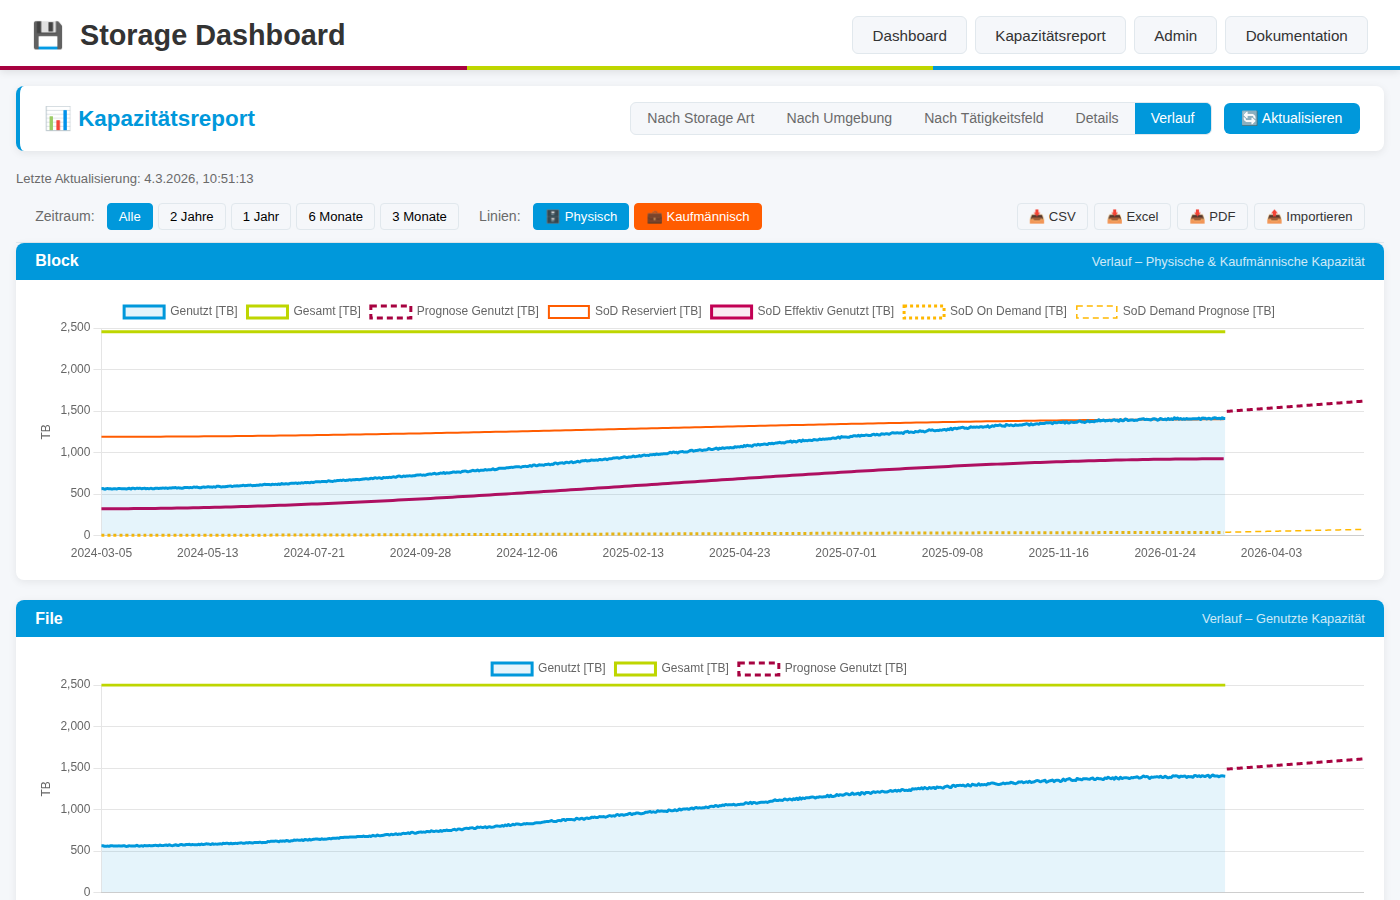
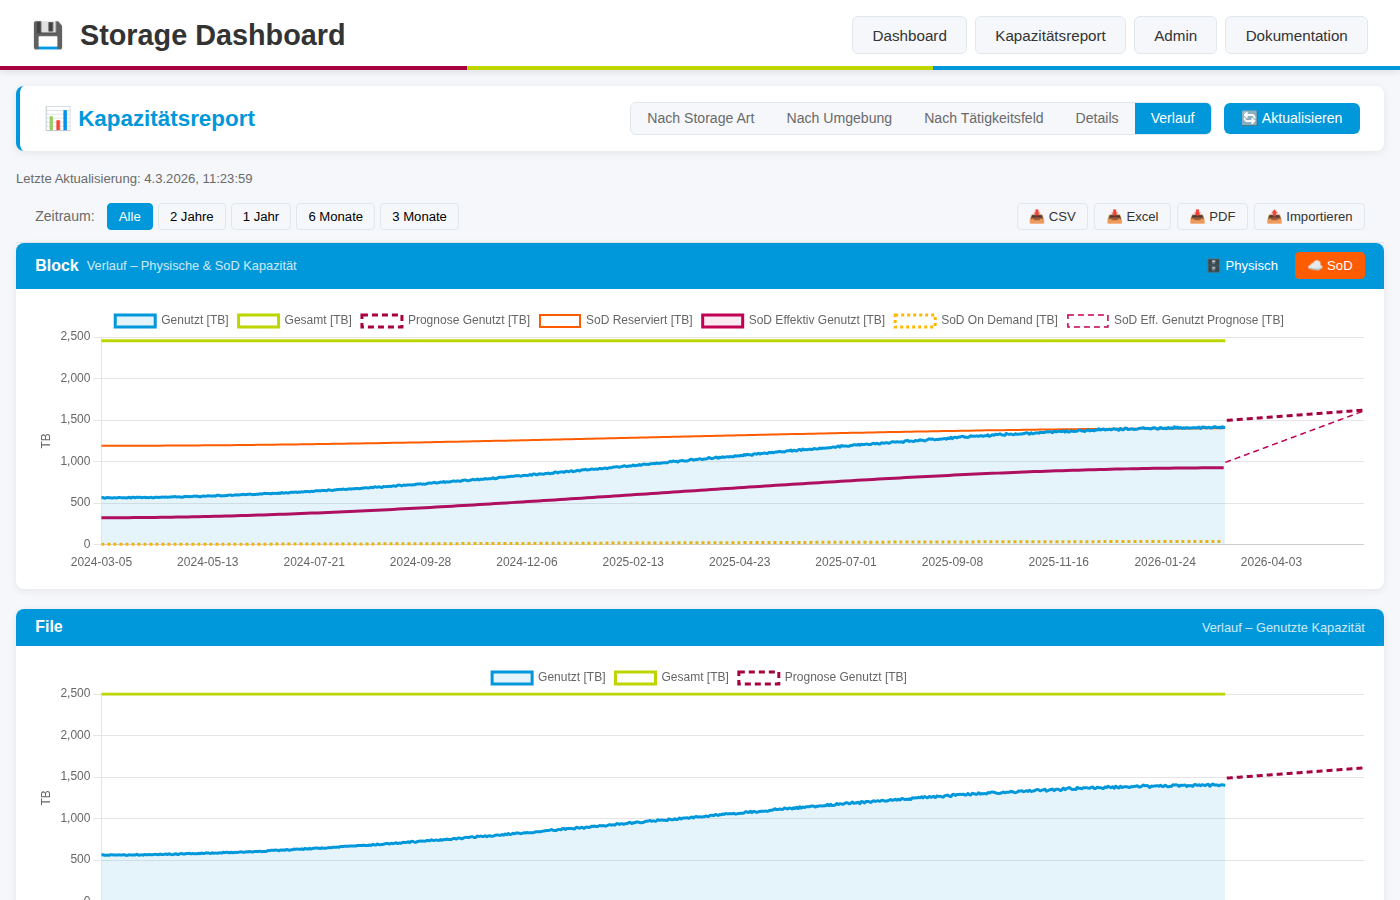
fix: effective_used forecast, Block-only SoD filter, rename Kaufmännisch→SoD

diff --git a/app/templates/capacity.html b/app/templates/capacity.html
@@ -510,17 +510,6 @@
             <button class="range-btn"        data-range="6m"   onclick="loadHistory('6m')">6 Monate</button>
             <button class="range-btn"        data-range="3m"   onclick="loadHistory('3m')">3 Monate</button>
         </div>
-        <label style="margin-left:.5rem;">Linien:</label>
-        <div class="line-filter-group">
-            <button class="line-filter-btn active" data-filter="physical"
-                    onclick="toggleLineFilter('physical')" title="Physische Linien ein-/ausblenden">
-                🗄 Physisch
-            </button>
-            <button class="line-filter-btn active commercial" data-filter="commercial"
-                    onclick="toggleLineFilter('commercial')" title="Kaufmännische Linien ein-/ausblenden">
-                💼 Kaufmännisch
-            </button>
-        </div>
         <div class="history-actions">
             <button class="export-btn" onclick="exportCsv()" title="Historische Daten als CSV exportieren">📥 CSV</button>
             <button class="export-btn" onclick="exportExcel()" title="Historische Daten als Excel exportieren">📥 Excel</button>
@@ -1229,10 +1218,25 @@ async function loadHistory(range) {
         el.innerHTML = arts.map(art => {
             const hasSod = art === 'Block' && data[art].sod;
             const subtitle = hasSod
-                ? 'Verlauf – Physische &amp; Kaufmännische Kapazität'
+                ? 'Verlauf – Physische &amp; SoD Kapazität'
                 : 'Verlauf – Genutzte Kapazität';
+            const filterHtml = hasSod ? `
+                <span class="line-filter-group" style="margin-left:auto;">
+                    <button class="line-filter-btn active" data-filter="physical"
+                            onclick="toggleLineFilter('physical')" title="Physische Linien ein-/ausblenden">
+                        🗄 Physisch
+                    </button>
+                    <button class="line-filter-btn active commercial" data-filter="commercial"
+                            onclick="toggleLineFilter('commercial')" title="SoD Linien ein-/ausblenden">
+                        ☁ SoD
+                    </button>
+                </span>` : '';
             return `<div class="cap-section">
-                <div class="cap-section-header"><span>${escHtml(art)}</span><span class="section-subtitle">${subtitle}</span></div>
+                <div class="cap-section-header" style="display:flex;align-items:center;gap:.5rem;">
+                    <span>${escHtml(art)}</span>
+                    <span class="section-subtitle">${subtitle}</span>
+                    ${filterHtml}
+                </div>
                 <div class="chart-container"><canvas id="chart-${escHtml(art).replace(/\s+/g,'-')}"></canvas></div>
             </div>`;
         }).join('');
@@ -1313,11 +1317,11 @@ async function loadHistory(range) {
                     borderDash: [3, 3],
                     _group: 'commercial',
                 });
-                if (sod.demand_forecast_values && sod.demand_forecast_values.length > 0) {
+                if (sod.effective_forecast_values && sod.effective_forecast_values.length > 0) {
                     datasets.push({
-                        label: 'SoD Demand Prognose [TB]',
-                        data: sod.demand_forecast_values.map((v, i) => ({x: sod.demand_forecast_labels[i], y: v})),
-                        borderColor: '#FFB800',
+                        label: 'SoD Eff. Genutzt Prognose [TB]',
+                        data: sod.effective_forecast_values.map((v, i) => ({x: sod.effective_forecast_labels[i], y: v})),
+                        borderColor: '#C20054',
                         backgroundColor: 'transparent',
                         tension: 0.3,
                         pointRadius: 0,
@@ -1367,19 +1371,21 @@ async function loadHistory(range) {
     }
 }
 
-// ── Line filter toggle ────────────────────────────────────────────────────
+// ── Line filter toggle (Block chart only) ────────────────────────────────
 function toggleLineFilter(group) {
     lineFilterState[group] = !lineFilterState[group];
-    const btn = document.querySelector(`.line-filter-btn[data-filter="${group}"]`);
-    if (btn) btn.classList.toggle('active', lineFilterState[group]);
-
-    // Update visibility on all existing charts
-    Object.values(chartInstances).forEach(chart => {
-        chart.data.datasets.forEach(ds => {
-            if (ds._group === group) ds.hidden = !lineFilterState[group];
-        });
-        chart.update();
+    // Update button state (the buttons live inside the Block chart header)
+    document.querySelectorAll(`.line-filter-btn[data-filter="${group}"]`).forEach(btn => {
+        btn.classList.toggle('active', lineFilterState[group]);
     });
+
+    // Only update the Block chart instance
+    const blockChart = chartInstances['Block'];
+    if (!blockChart) return;
+    blockChart.data.datasets.forEach(ds => {
+        if (ds._group === group) ds.hidden = !lineFilterState[group];
+    });
+    blockChart.update();
 }
 
 // ── Storage on Demand refresh ─────────────────────────────────────────────

diff --git a/app/routes/capacity.py b/app/routes/capacity.py
@@ -81,14 +81,14 @@ def api_history():
                 'labels': [], 'used': [], 'total': [],
                 'forecast_labels': [], 'forecast_values': [],
             }
-        fc_demand = compute_forecast(sod['labels'], sod['on_demand'], forecast_days=90)
+        fc_demand = compute_forecast(sod['labels'], sod['effective_used'], forecast_days=90)
         history[block_art]['sod'] = {
             'labels': sod['labels'],
             'reserved': sod['reserved'],
             'effective_used': sod['effective_used'],
             'on_demand': sod['on_demand'],
-            'demand_forecast_labels': fc_demand['labels'],
-            'demand_forecast_values': fc_demand['values'],
+            'effective_forecast_labels': fc_demand['labels'],
+            'effective_forecast_values': fc_demand['values'],
         }
 
     return jsonify(history)

diff --git a/README.md b/README.md
@@ -31,7 +31,7 @@ Ein Python-basiertes Dashboard zur Überwachung von Storage-Systemen verschieden
 ### Kapazitätsreport – Details (alle Systeme)
 ![Kapazitätsreport – Details](screenshots/capacity-details.png)
 
-### Kapazitätsreport – Verlauf mit physischen & kaufmännischen Linien, Filter und Prognose
+### Kapazitätsreport – Verlauf mit physischen & SoD-Linien, Filter und Prognose
 ![Kapazitätsreport – Verlauf](screenshots/capacity-history.png)
 
 ### Kapazitätsreport – Verlauf Steuerleiste (Zeitraum, Linienfilter, Export/Import)
@@ -50,7 +50,7 @@ Ein Python-basiertes Dashboard zur Überwachung von Storage-Systemen verschieden
 - **Multi-Vendor Support**: Überwachung von Pure Storage, NetApp ONTAP 9, NetApp StorageGRID 11 und Dell DataDomain
 - **Web Dashboard**: Übersichtliche Card/Grid-Ansicht aller Storage-Systeme
 - **Kapazitätsreport**: Tabellarische Kapazitätsübersicht aller Systeme unter `/capacity/` – gruppiert nach Storage Art (**Block → File → Object → Archiv → Backup**), Umgebung oder Tätigkeitsfeld, mit Verlaufsgraphen und Wachstumsprognose
-- **Verlaufsdiagramme**: Historische Kapazitätsgraphen in der gleichen Reihenfolge wie die Tabellen (Block → File → Object → Archiv → Backup). Der **Block-Graph** zeigt physische und kaufmännische (SoD) Werte parallel in zwei Liniengruppen. Über einen **Linienfilter** können physische oder kaufmännische Linien ein- und ausgeblendet werden.
+- **Verlaufsdiagramme**: Historische Kapazitätsgraphen in der gleichen Reihenfolge wie die Tabellen (Block → File → Object → Archiv → Backup). Der **Block-Graph** zeigt physische und SoD-Vertragswerte parallel in zwei Liniengruppen. Über einen **Linienfilter** direkt im Block-Graph-Header können physische oder SoD-Linien ein- und ausgeblendet werden.
 - **Storage on Demand (Pure1)**: Bei konfigurierter Pure1 API wird in allen Kapazitätsansichten (Nach Storage Art, Nach Umgebung, Nach Tätigkeitsfeld) eine kompakte SoD-Zusammenfassung angezeigt (Reservierte Kapazität, Effektiv Genutzt, Auslastung [%]). Die Kapazitätstabellen zeigen zusätzlich eine Spalte **„Effektiv Genutzt [TB]"**, die die Pure1-Effektivwerte (nach Deduplikation/Komprimierung) pro Zeile summiert. Vollständige Detailinformationen (Verträge, Lizenzen, Arrays) sind im Tab **Details** verfügbar:
   - Wöchentlich automatisch abgerufen, manuell per Knopfdruck aktualisierbar
   - Wird nur angezeigt, wenn Pure1 in den Einstellungen konfiguriert ist
@@ -357,7 +357,7 @@ Der Kapazitätsreport bietet eine umfassende tabellarische und grafische Auswert
 | **Nach Umgebung** | Eine Tabelle pro Umgebung (Produktion, Test/Dev) mit Zeilen je Storage-Typ und Total. Enthält ebenfalls die Pure1 SoD-Zusammenfassung am Ende. |
 | **Nach Tätigkeitsfeld** | Eine Tabelle pro Abteilung/Tätigkeitsfeld mit Zeilen für jede Umgebung × Storage-Typ-Kombination. Enthält ebenfalls die Pure1 SoD-Zusammenfassung am Ende. |
 | **Details** | Alle Einzelsysteme mit Name, Umgebung, Tätigkeitsfeld und Kapazitätswerten, gruppiert nach Storage-Typ. Im Block-Bereich zusätzlich eine aufklappbare Untertabelle mit vollständigen Pure1 SoD-Lizenzdaten (Reserviert, Effektiv Genutzt, On Demand, Arrays). |
-| **Verlauf** | Liniendiagramme pro Storage-Typ in der gleichen Reihenfolge wie die Tabellen (Block → File → Object → Archiv → Backup) mit wählbarem Zeitraum (Alle / 2J / 1J / 6M / 3M) und linearer Wachstumsprognose als gestrichelte Linie. Der Block-Graph zeigt zusätzlich kaufmännische SoD-Linien. |
+| **Verlauf** | Liniendiagramme pro Storage-Typ in der gleichen Reihenfolge wie die Tabellen (Block → File → Object → Archiv → Backup) mit wählbarem Zeitraum (Alle / 2J / 1J / 6M / 3M) und linearer Wachstumsprognose als gestrichelte Linie. Der Block-Graph zeigt zusätzlich SoD-Vertragslinien mit eigenem Filter. |
 
 **Spalten in den Kapazitätstabellen:**
 - Gesamt [TB], Genutzt [TB], Frei [TB]
@@ -385,9 +385,9 @@ Der **Verlauf**-Tab zeigt historische Kapazitätsgraphen für alle Storage-Typen
 
 Die Graphen erscheinen in der gleichen Reihenfolge wie die Tabellen: **Block → File → Object → Archiv → Backup**.
 
-**Physische und kaufmännische Linien im Block-Graphen:**
+**Physische und SoD-Linien im Block-Graphen:**
 
-Der Block-Graph zeigt physische und SoD-Vertragswerte parallel. Physische Linien (Pure blau / grün) und kaufmännische Linien (Pure Storage Farben Orange / Dunkelrot / Goldgelb) sind klar unterschieden:
+Der Block-Graph zeigt physische und SoD-Vertragswerte parallel. Physische Linien (Pure blau / grün) und SoD-Linien (Pure Storage Farben Orange / Dunkelrot / Goldgelb) sind klar unterschieden:
 
 | Linie | Farbe | Bedeutung |
 |-------|-------|-----------|
@@ -395,15 +395,17 @@ Der Block-Graph zeigt physische und SoD-Vertragswerte parallel. Physische Linien
 | Gesamt [TB] | 🟡 Grüngelb | Physisch installierte Gesamtkapazität |
 | Prognose Genutzt [TB] | 🔴 Dunkelrot, gestrichelt | Lineare Prognose der physischen Nutzung |
 | SoD Reserviert [TB] | 🟠 Orange | Vertraglich reservierte SoD-Kapazität |
-| SoD Effektiv Genutzt [TB] | 🟣 Magenta | Kaufmännisch effektiv genutzte Kapazität |
+| SoD Effektiv Genutzt [TB] | 🟣 Magenta | SoD effektiv genutzte Kapazität |
 | SoD On Demand [TB] | 🟡 Goldgelb, gestrichelt | Über-Vertrag-Nutzung (On Demand) |
-| SoD Demand Prognose [TB] | 🟡 Goldgelb, gestrichelt | Lineare Prognose der On-Demand-Nutzung |
+| SoD Eff. Genutzt Prognose [TB] | 🟣 Magenta, gestrichelt | Lineare Prognose der SoD-Nutzung – zeigt ab wann On-Demand-Kapazität benötigt wird |
 
-![Block-Graph mit physischen und kaufmännischen Linien](screenshots/capacity-history.png)
+![Block-Graph mit physischen und SoD-Linien](screenshots/capacity-history.png)
 
-**Linienfilter:**
+**Linienfilter (nur im Block-Graphen):**
 
-Über die Schaltflächen **🗄 Physisch** und **💼 Kaufmännisch** in der Steuerleiste können physische oder kaufmännische Linien in allen Charts gleichzeitig ein- und ausgeblendet werden. Aktive Gruppen erscheinen farbig, inaktive ausgegraut.
+Die Schaltflächen **🗄 Physisch** und **☁ SoD** befinden sich direkt im Header des Block-Graphen und blenden die jeweiligen Liniengruppen nur für diesen Graphen ein oder aus. Aktive Gruppen erscheinen farbig hervorgehoben, inaktive ausgegraut.
+
+![Verlauf-Steuerleiste und Block-Graph mit Linienfilter](screenshots/capacity-history-controls.png)
 
 ### Export und Import historischer Daten (`/capacity/` → Verlauf)
 
